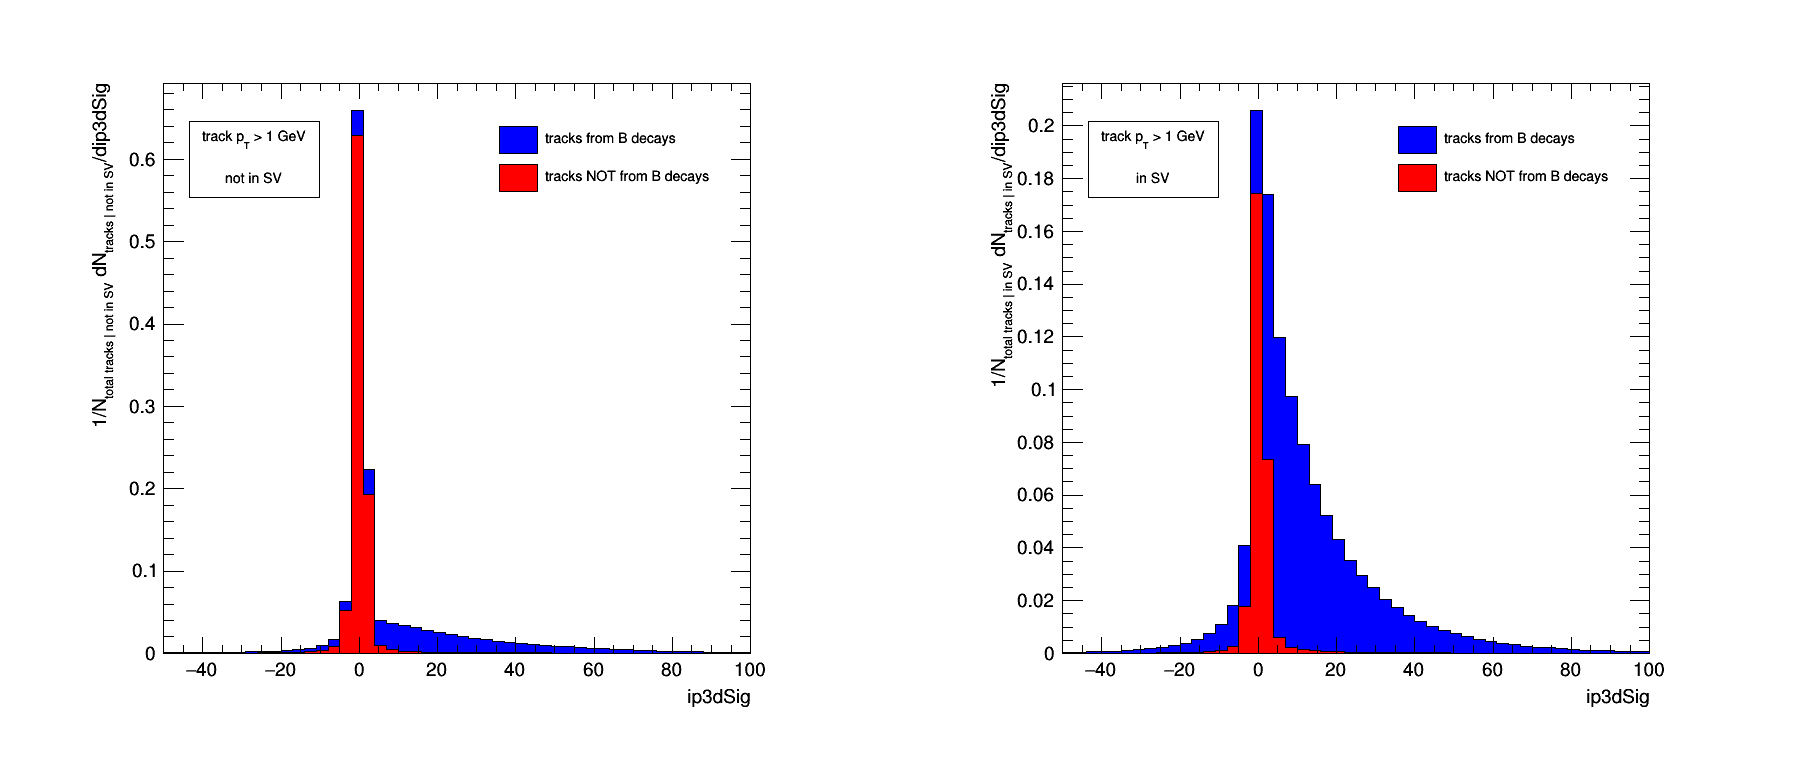
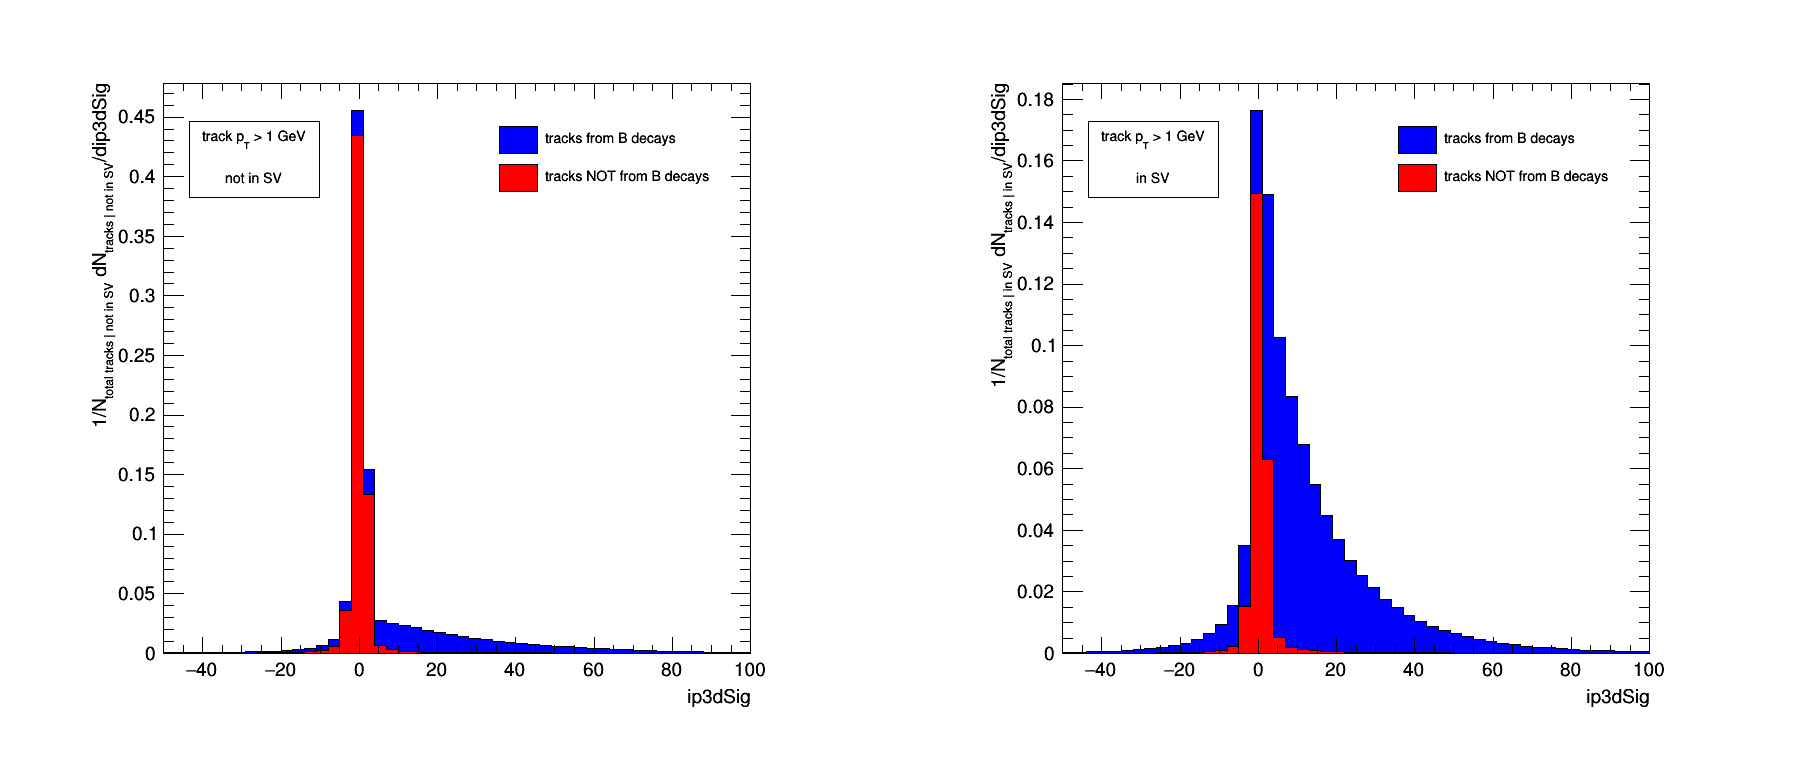
fix bug with normalisation

diff --git a/myMacros/svvar_discr_power/draw_discr_selection.C b/myMacros/svvar_discr_power/draw_discr_selection.C
@@ -50,12 +50,12 @@ void draw_discr_selection()
 
     // Create sum histogram to normalise stack histograms
     TH1D *h_inSV_stack = (TH1D *) hsig_ip3dSig_inSV->Clone();
-    h_inSV_stack->Add(hsig_ip3dSig_notInSV_stack);
+    h_inSV_stack->Add(hbkg_ip3dSig_inSV_stack);
     h_inSV_stack->GetXaxis()->SetRange(0, h_inSV_stack->GetNbinsX() + 1);
     Float_t inSV_norm = h_inSV_stack->Integral();
 
     TH1D *h_notInSV_stack = (TH1D *) hsig_ip3dSig_notInSV->Clone();
-    h_notInSV_stack->Add(hsig_ip3dSig_notInSV_stack);
+    h_notInSV_stack->Add(hbkg_ip3dSig_notInSV_stack);
     h_notInSV_stack->GetXaxis()->SetRange(0, h_notInSV_stack->GetNbinsX() + 1);
     Float_t notInSV_norm = h_notInSV_stack->Integral();
 
